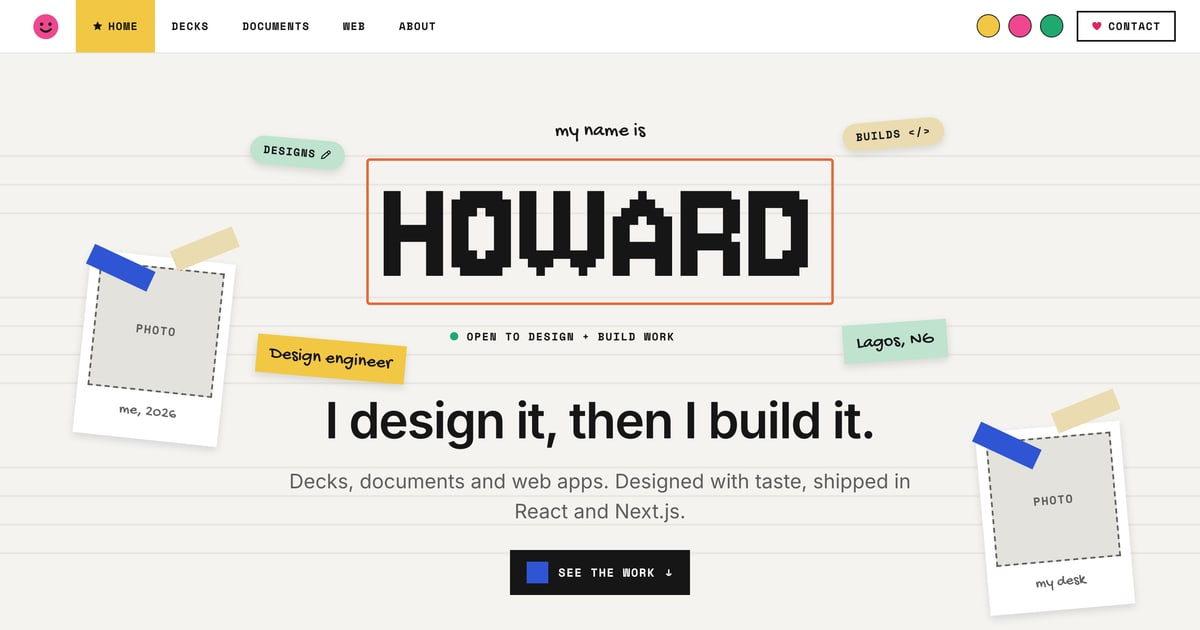
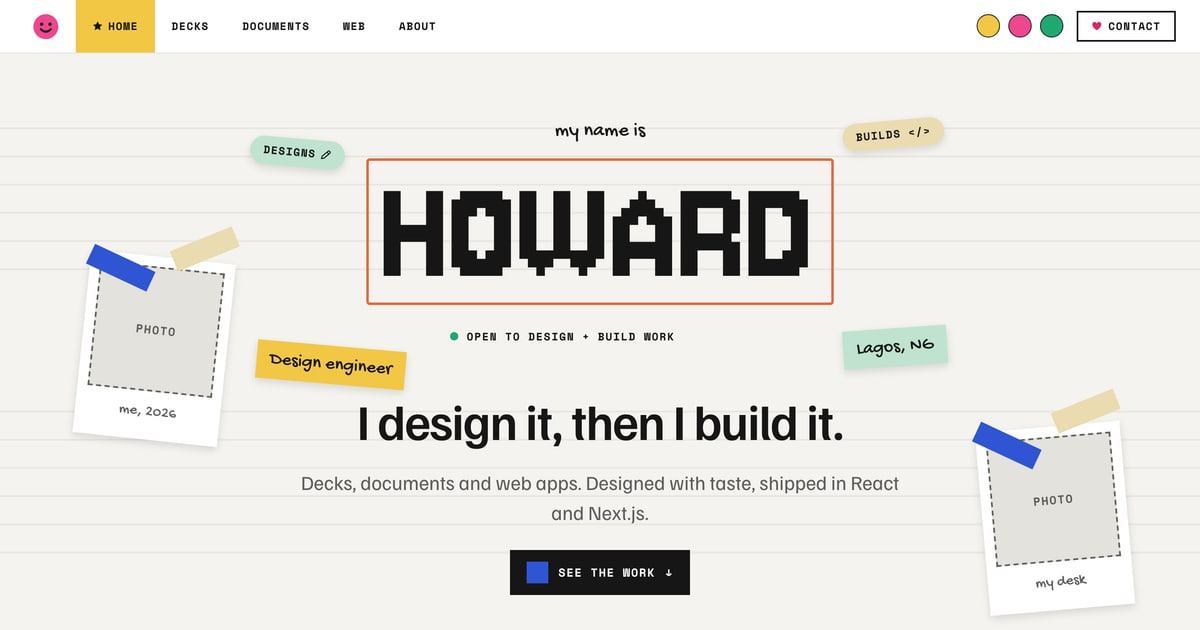
feat: body type moves from Inter to Familjen Grotesk (Figma 67:17)
- Familjen Grotesk at the same sizes, weights, tracking and line heights
- Site-character cut drops from 31.6 KB (Inter) to 13.7 KB; Google's subsets stay
  behind it as on-demand fallbacks
- Familjen has no Ṣ ṣ: sans-patch-400/600 build them from its own S, s and
  dotbelowcomb, the way the font builds Ẹ and Ọ (scripts/glyph-patches.py)
- Sans arrows re-cut from Familjen; both arrow subsets now come from pnpm fonts
- Home Open Graph card re-captured

Changed region(s): [[0.2158, 0.5127, 0.74, 0.7238], [0.2467, 0.754, 0.7708, 0.8444], [0.7092, 0.4825, 0.8017, 0.6032]]

diff --git a/src/app/layout.tsx b/src/app/layout.tsx
@@ -1,5 +1,5 @@
 import type { Metadata, Viewport } from "next";
-import { Gochi_Hand, Inter, Jersey_10, Space_Mono } from "next/font/google";
+import { Familjen_Grotesk, Gochi_Hand, Jersey_10, Space_Mono } from "next/font/google";
 import localFont from "next/font/local";
 import type { ReactNode } from "react";
 import { RevealScript } from "@/components/reveal-script";
@@ -15,9 +15,10 @@ const jersey = Jersey_10({
   variable: "--font-jersey",
   display: "swap",
 });
-const inter = Inter({
+// Body type: Familjen Grotesk (Howard moved the file off Inter on 2026-10-23).
+const familjen = Familjen_Grotesk({
   subsets: ["latin"],
-  variable: "--font-inter",
+  variable: "--font-familjen",
   display: "swap",
   preload: false,
 });
@@ -41,10 +42,10 @@ const spaceMono = Space_Mono({
 // through to Google's subsets, not to a local Arial. All three are preloaded:
 // they're small, every page's first view uses them, and the fallback mono is
 // wide enough to wrap the project tags onto a second row (a 0.13 layout shift).
-const interCore = localFont({
-  src: "../fonts/inter-core.woff2",
+const familjenCore = localFont({
+  src: "../fonts/familjen-core.woff2",
   weight: "400 600",
-  variable: "--font-inter-core",
+  variable: "--font-familjen-core",
   display: "swap",
   adjustFontFallback: false,
 });
@@ -64,8 +65,8 @@ const monoCore = localFont({
 });
 
 // Ẹ ẹ Ọ ọ Ṣ ṣ ₦, the combining grave / acute / dot below, and ẹ̀ ẹ́ ọ̀ ọ́ drawn
-// from Jersey 10 and Gochi Hand's own glyphs (scripts/glyph-patches.py).
-// (next/font needs literal options, hence the repetition.)
+// from Jersey 10 and Gochi Hand's own glyphs, and Ṣ ṣ for Familjen Grotesk
+// (scripts/glyph-patches.py). (next/font needs literal options, hence the repetition.)
 const pixelPatch = localFont({
   src: "../fonts/pixel-patch.woff2",
   variable: "--font-pixel-patch",
@@ -92,7 +93,19 @@ const handPatch = localFont({
     },
   ],
 });
-// Arrows cut from Space Mono Bold and Inter: Google's latin subsets only carry ↑ ↓.
+const sansPatch = localFont({
+  src: [
+    { path: "../fonts/sans-patch-400.woff2", weight: "400" },
+    { path: "../fonts/sans-patch-600.woff2", weight: "600" },
+  ],
+  variable: "--font-sans-patch",
+  display: "swap",
+  preload: false,
+  adjustFontFallback: false,
+  declarations: [{ prop: "unicode-range", value: "U+1E62-1E63" }],
+});
+// Arrows cut from Space Mono Bold and Familjen Grotesk: Google's latin subsets
+// only carry ↑ ↓.
 const monoArrows = localFont({
   src: "../fonts/mono-arrows.woff2",
   weight: "700",
@@ -127,14 +140,15 @@ export const viewport: Viewport = {
 
 const fonts = [
   jersey,
-  inter,
+  familjen,
   gochi,
   spaceMono,
-  interCore,
+  familjenCore,
   gochiCore,
   monoCore,
   pixelPatch,
   handPatch,
+  sansPatch,
   monoArrows,
   sansArrows,
 ];

diff --git a/src/app/globals.css b/src/app/globals.css
@@ -28,8 +28,9 @@
 /*
  * Type. Each glyph patch comes first in its stack with a unicode-range, so it
  * only loads where a page uses one of its characters: Jersey 10 and Gochi Hand
- * have no Ẹ Ọ Ṣ ₦ (scripts/glyph-patches.py builds them from each font's own
- * shapes), and Google's Space Mono / Inter subsets leave out the arrows. The
+ * have no Ẹ Ọ Ṣ ₦ and Familjen Grotesk has no Ṣ (scripts/glyph-patches.py builds
+ * them from each font's own shapes), and Google's Space Mono / Familjen subsets
+ * leave out the arrows. The
  * "-core" faces are the same fonts cut to the site's characters.
  */
 @theme inline {
@@ -41,8 +42,8 @@
     var(--font-mono-arrows), var(--font-mono-core), var(--font-space-mono), ui-monospace,
     SFMono-Regular, monospace;
   --font-sans:
-    var(--font-sans-arrows), var(--font-inter-core), var(--font-inter), ui-sans-serif, system-ui,
-    sans-serif;
+    var(--font-sans-arrows), var(--font-sans-patch), var(--font-familjen-core),
+    var(--font-familjen), ui-sans-serif, system-ui, sans-serif;
 }
 
 /* Fluid sizes interpolate linearly from the 390 frame to the 1440 frame. */

diff --git a/scripts/glyph-patches.py b/scripts/glyph-patches.py
@@ -1,17 +1,19 @@
 #!/usr/bin/env python3
 """
-Glyph patches for the two display fonts that can't set Yoruba.
+Glyph patches for the fonts that can't set Yoruba.
 
 Jersey 10 (pixel headings) and Gochi Hand (handwriting) have no Ẹ ẹ Ọ ọ Ṣ ṣ or
-₦, and Gochi Hand has no combining accents either. This builds a tiny font per
+₦, and Gochi Hand has no combining accents either. Familjen Grotesk (body) has
+everything but Ṣ ṣ. This builds a tiny font per
 family from that family's own glyphs: the dot-below letters, ₦, the combining
 grave / acute / dot below, and tone-marked ẹ̀ ẹ́ ọ̀ ọ́ (upper and lower case) as
 ccmp ligatures, since those have no precomposed code point. layout.tsx loads
 each patch first in its font stack with a unicode-range, so it only downloads
 on pages that use one of these characters.
 
-Usage:   python3 scripts/glyph-patches.py <Jersey10-Regular.ttf> <GochiHand-Regular.ttf>
-Sources: github.com/google/fonts, ofl/jersey10 and ofl/gochihand (both OFL).
+Usage:   python3 scripts/glyph-patches.py <Jersey10-Regular.ttf> <GochiHand-Regular.ttf> \
+           <FamiljenGrotesk[wght].ttf>
+Sources: github.com/google/fonts, ofl/jersey10, ofl/gochihand, ofl/familjengrotesk (all OFL).
 Needs:   pip install fonttools brotli
 """
 
@@ -26,6 +28,8 @@ from fontTools.pens.recordingPen import DecomposingRecordingPen
 from fontTools.pens.transformPen import TransformPen
 from fontTools.pens.ttGlyphPen import TTGlyphPen
 from fontTools.ttLib import TTFont
+from fontTools.ttLib.tables._g_l_y_f import Glyph, GlyphComponent
+from fontTools.varLib import instancer
 
 OUT = Path(__file__).resolve().parent.parent / "src" / "fonts"
 
@@ -201,8 +205,55 @@ def gochi(path):
     p.save(OUT / "hand-patch.woff2", "Hand Patch")
 
 
+def familjen(path):
+    """Ṣ ṣ for Familjen Grotesk, built the way the font builds its own Ẹ and Ọ:
+    the letter plus its dotbelowcomb, centred. One static file per weight used
+    (Regular and SemiBold; Medium text picks the nearer one)."""
+    for weight, name in ((400, "Regular"), (600, "SemiBold")):
+        font = instancer.instantiateVariableFont(TTFont(path), {"wght": weight})
+        glyf, hmtx, cmap = font["glyf"], font["hmtx"], font.getBestCmap()
+        dot = cmap[0x0323]
+        dx0, _, dx1, _ = (glyf[dot].xMin, 0, glyf[dot].xMax, 0)
+        for base, cp in (("S", 0x1E62), ("s", 0x1E63)):
+            b = glyf[cmap[ord(base)]]
+            glyph = Glyph()
+            glyph.numberOfContours = -1
+            glyph.components = []
+            for gname, x in ((cmap[ord(base)], 0), (dot, round((b.xMin + b.xMax - dx0 - dx1) / 2))):
+                comp = GlyphComponent()
+                comp.glyphName, comp.x, comp.y, comp.flags = gname, x, 0, 0
+                glyph.components.append(comp)
+            new = f"uni{cp:04X}"
+            glyf[new] = glyph
+            glyph.recalcBounds(glyf)
+            hmtx[new] = hmtx[cmap[ord(base)]]
+            for table in font["cmap"].tables:
+                if table.isUnicode():
+                    table.cmap[cp] = new
+        font.setGlyphOrder(glyf.glyphOrder)
+        names = font["name"]
+        for nid in (1, 3, 4, 6, 16, 17, 21, 22, 25):
+            names.removeNames(nameID=nid)
+        for nid, value in ((1, "Sans Patch"), (2, name), (3, f"SansPatch-{name}"),
+                           (4, f"Sans Patch {name}"), (6, f"SansPatch-{name}")):
+            names.setName(value, nid, 3, 1, 0x409)
+        options = subset.Options()
+        options.flavor = "woff2"
+        options.layout_features = []
+        options.hinting = False
+        options.name_IDs = [0, 1, 2, 3, 4, 5, 6, 13, 14]
+        subsetter = subset.Subsetter(options)
+        subsetter.populate(unicodes=[0x1E62, 0x1E63])
+        subsetter.subset(font)
+        font.flavor = "woff2"
+        out = OUT / f"sans-patch-{weight}.woff2"
+        font.save(out)
+        print(f"{out.name}: {len(font.getGlyphOrder())} glyphs, {out.stat().st_size} bytes")
+
+
 if __name__ == "__main__":
-    if len(sys.argv) != 3:
+    if len(sys.argv) != 4:
         sys.exit(__doc__)
     jersey(sys.argv[1])
     gochi(sys.argv[2])
+    familjen(sys.argv[3])

diff --git a/DEPLOY.md b/DEPLOY.md
@@ -49,12 +49,14 @@ from the built hero at 1440 wide.
 
 ## Fonts
 
-- `pnpm fonts` re-cuts Inter, Gochi Hand and Space Mono to the characters the built site uses.
+- `pnpm fonts` re-cuts Familjen Grotesk, Gochi Hand and Space Mono to the characters the built site
+  uses, and cuts the arrow subsets.
   Run it after a content change (`pnpm build && pnpm fonts && pnpm build`). Skipping it is safe:
   a missing character falls through to Google's full subsets.
 - `src/fonts/pixel-patch.woff2` and `hand-patch.woff2` add Ẹ Ọ Ṣ ₦ and the tone-marked vowels to
-  Jersey 10 and Gochi Hand, drawn from their own glyphs. Rebuild with
-  `python3 scripts/glyph-patches.py <Jersey10-Regular.ttf> <GochiHand-Regular.ttf>` (needs
-  `pip install fonttools brotli`; sources from github.com/google/fonts).
+  Jersey 10 and Gochi Hand, and `sans-patch-*.woff2` adds Ṣ ṣ to Familjen Grotesk, all drawn from
+  each font's own glyphs. Rebuild with
+  `python3 scripts/glyph-patches.py <Jersey10-Regular.ttf> <GochiHand-Regular.ttf> <FamiljenGrotesk[wght].ttf>`
+  (needs `pip install fonttools brotli`; sources from github.com/google/fonts).
 - Project type samples are SVG outlines in `src/type-samples/`, exported from Figma, so those
   fonts are never loaded.
